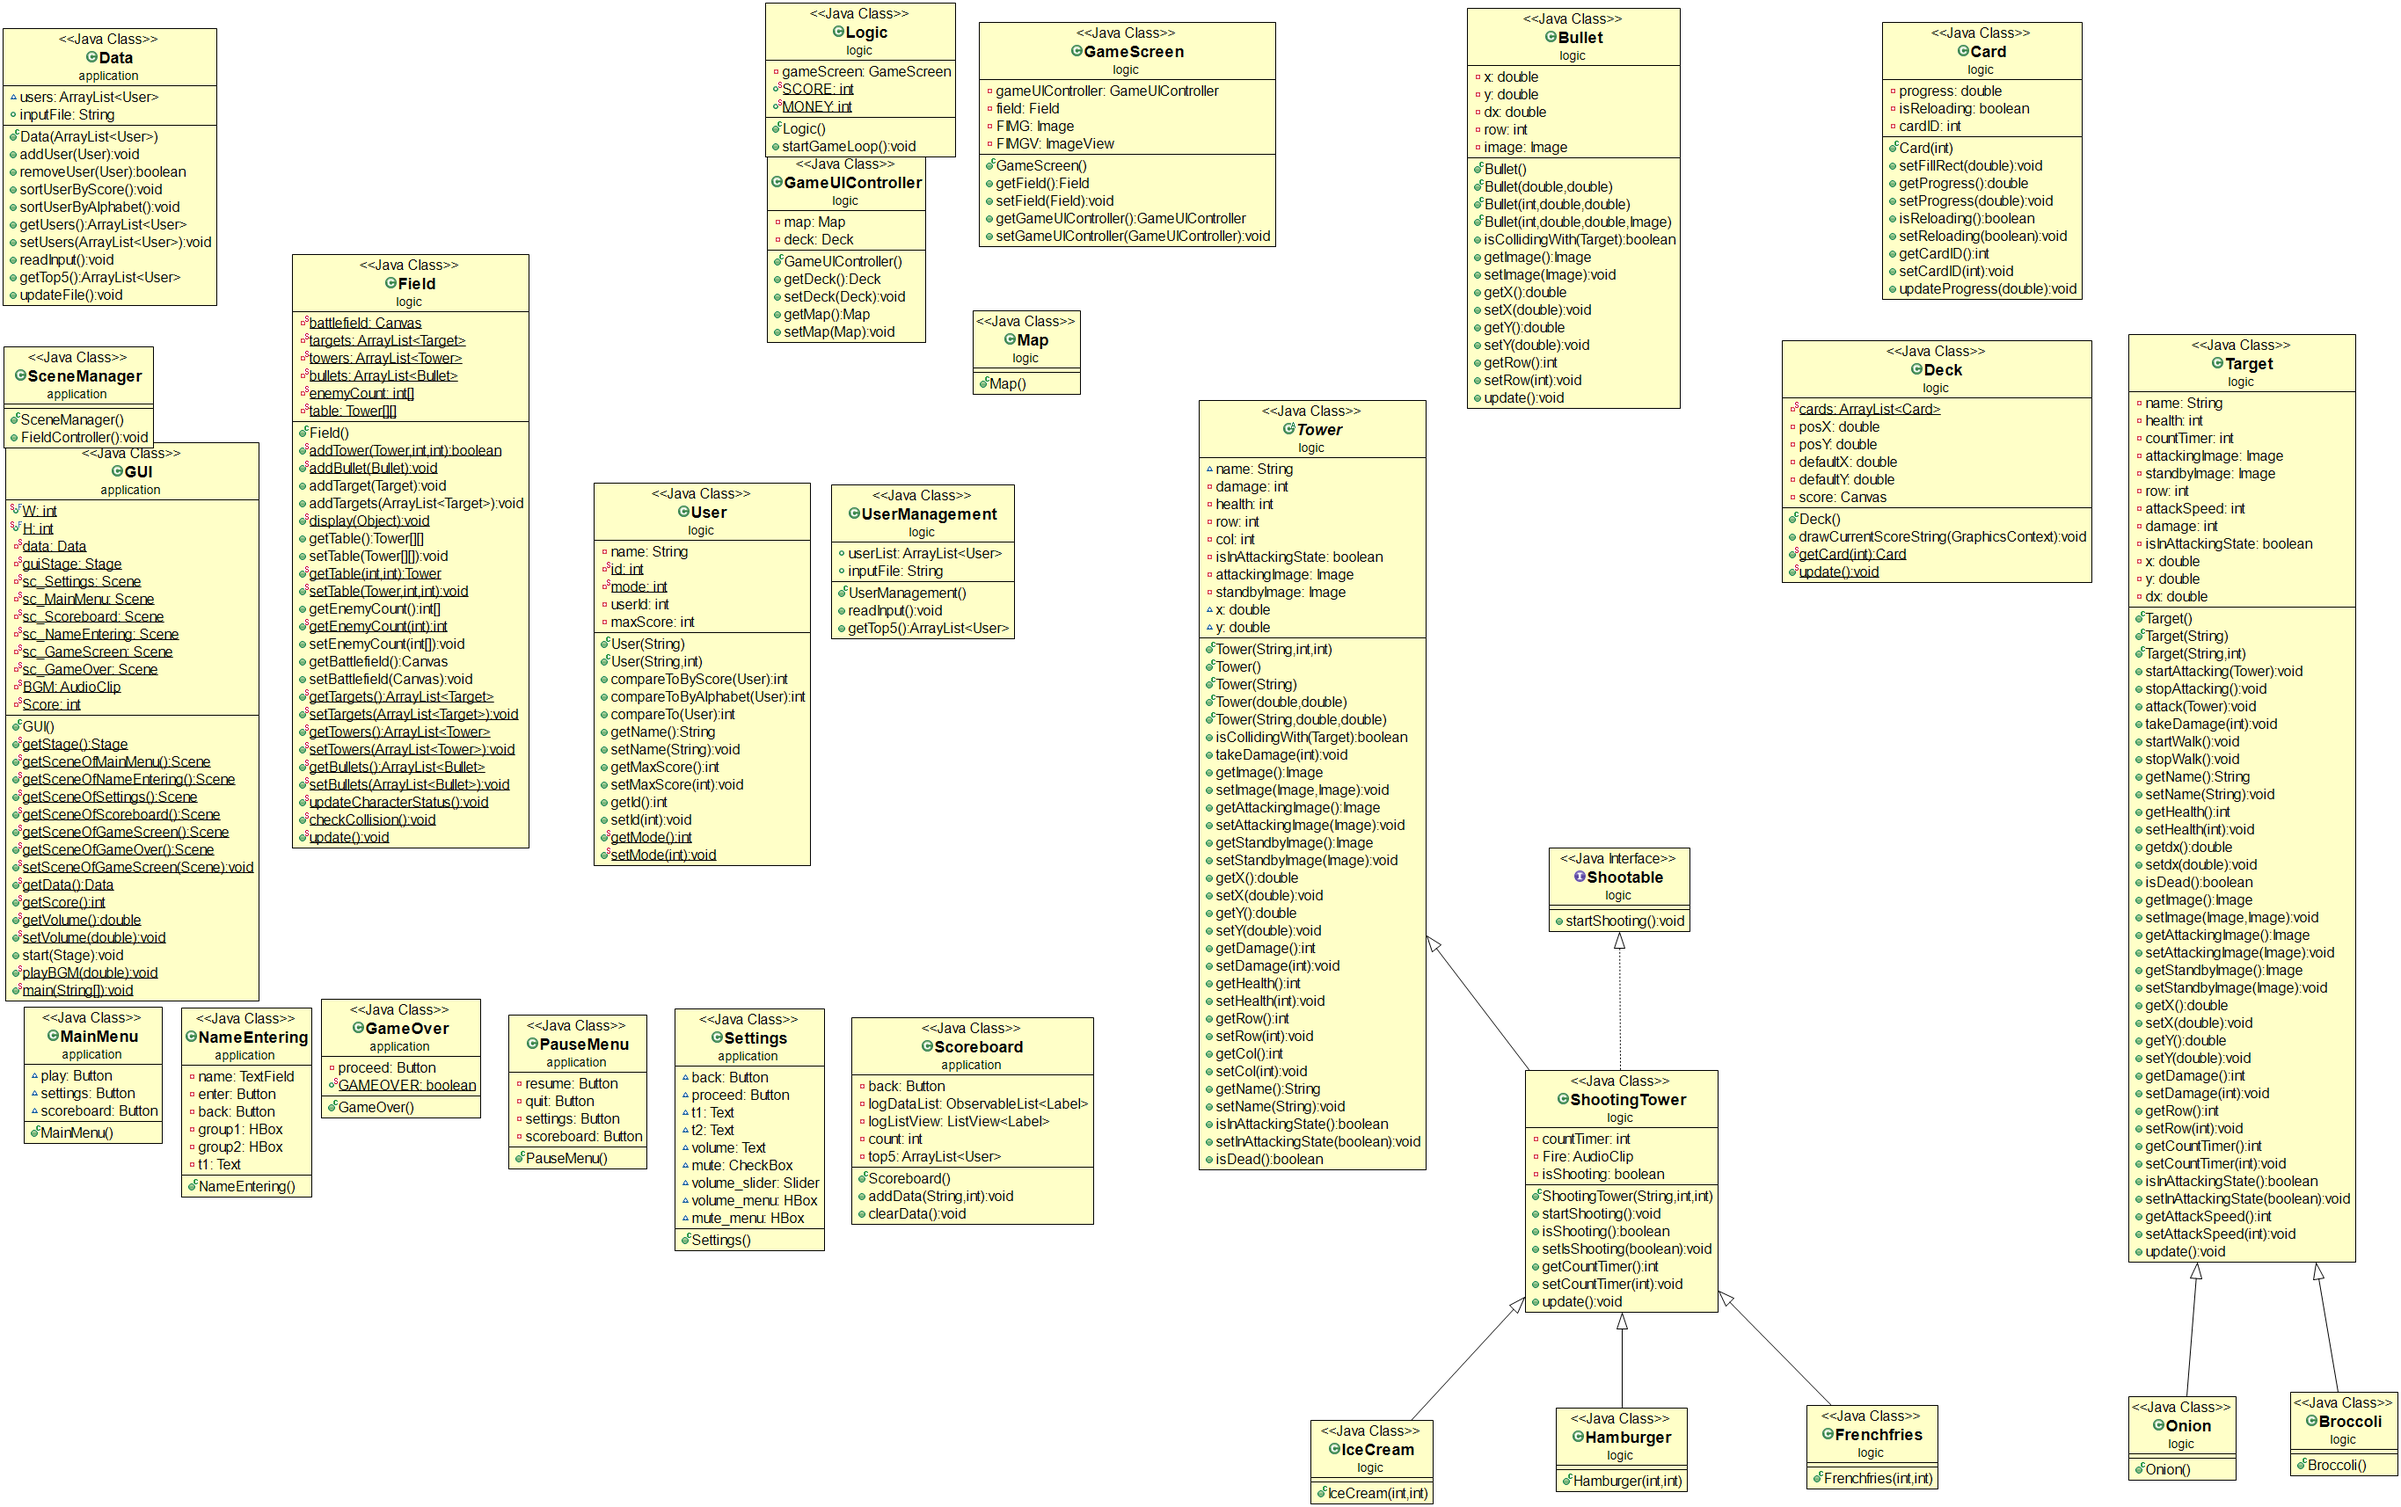
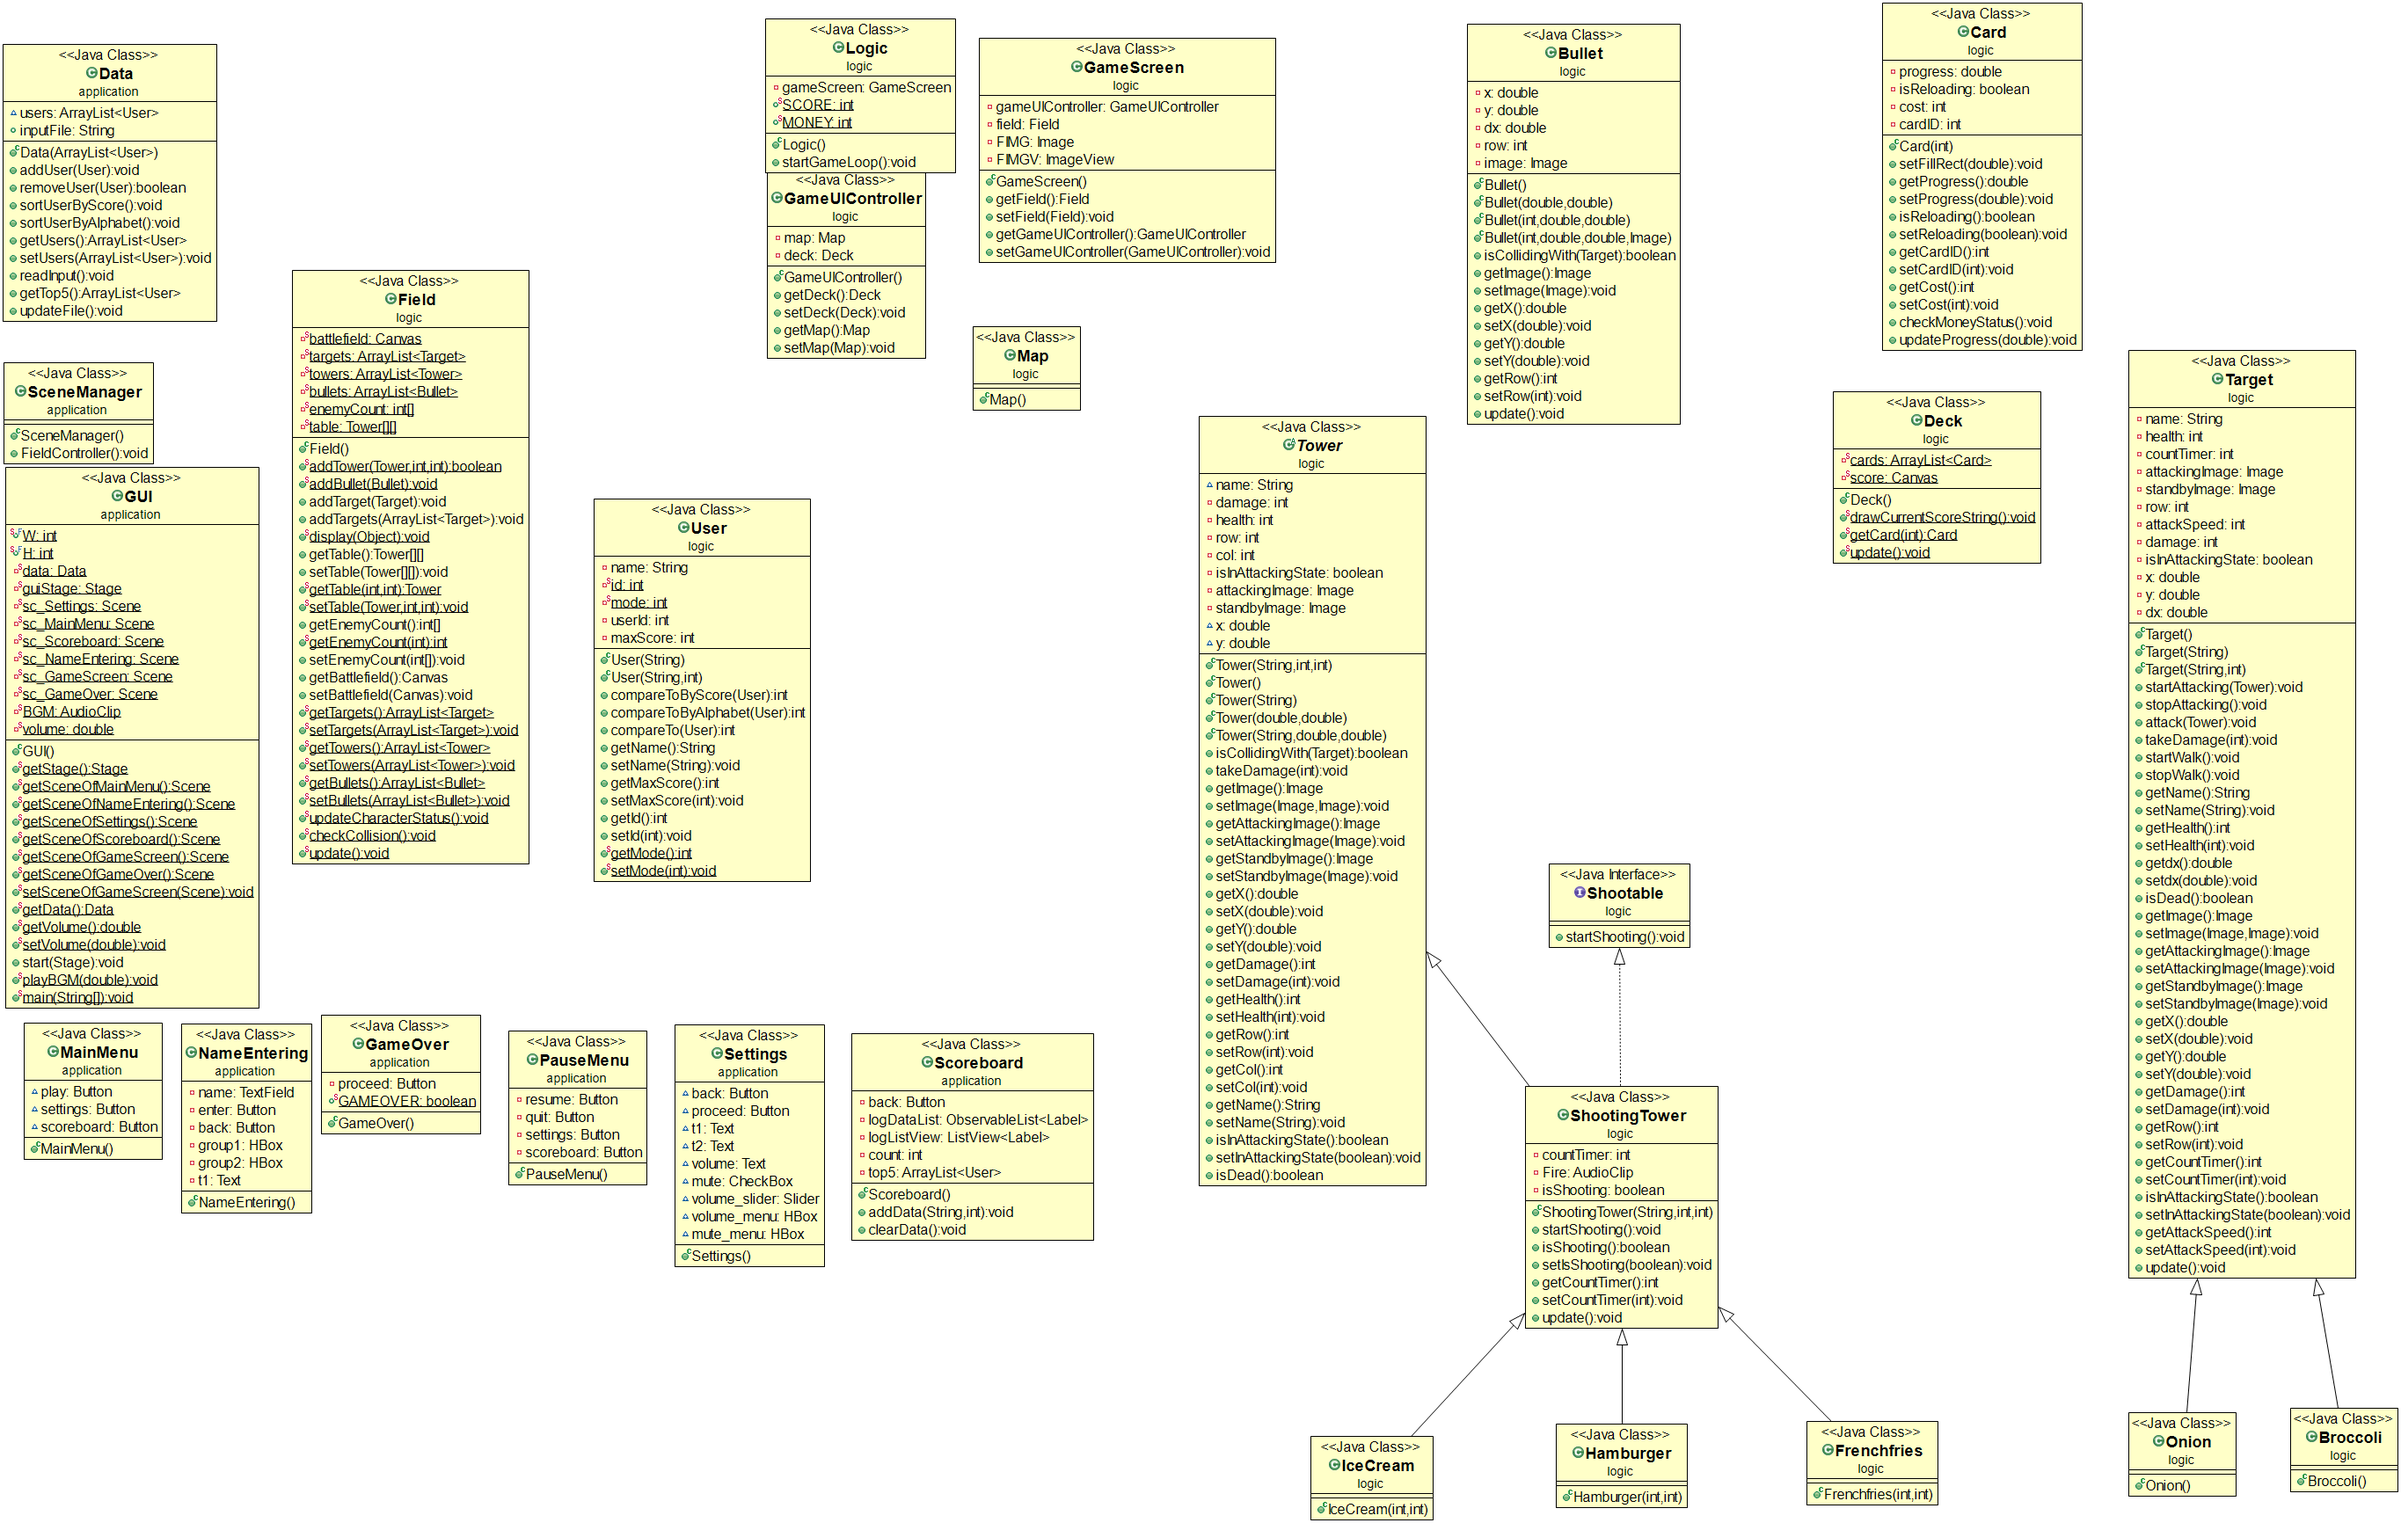
Added card reloading time and score/moeny attribute

diff --git a/src/logic/Card.java b/src/logic/Card.java
@@ -8,23 +8,32 @@ import javafx.scene.input.ClipboardContent;
 import javafx.scene.input.Dragboard;
 import javafx.scene.input.TransferMode;
 import javafx.scene.paint.Color;
+import javafx.scene.paint.Paint;
 
 public class Card extends Canvas{
 	private double progress = 0.0;
 	private boolean isReloading = false;
+	private int cost;
 	private int cardID;
 	public Card(int i) {
+		switch(i) {
+			case 1: cost = 100; break;
+			case 2: cost = 150; break;
+			case 3: cost = 200; break;
+			default: break;
+		}
 		setCardID(i);
 		setWidth(100);
 		setHeight(130);
 		setCursor(Cursor.HAND);
 		System.out.println("Card_" + i + ".png");
+		//getGraphicsContext2D().setFill(new Color(50, 50, 50));
 		getGraphicsContext2D().drawImage(new Image("Card_" + i + ".png"), 0, 0, getWidth(), getHeight());
 		
 		//setStyle("-fx-background-image: url('Card_" + i + ".png)");
 		setOnDragDetected((t)->{
 			System.out.println("Drag Detected");
-			if(!isReloading()) {
+			if(!isReloading() && Logic.MONEY >= cost) {
 				Dragboard db = startDragAndDrop(TransferMode.MOVE);
 				ClipboardContent content = new ClipboardContent();
 				content.putImage(new Image("Tower_" + i + ".png", 100,100,false,false));
@@ -38,7 +47,9 @@ public class Card extends Canvas{
 		});
 	}
 	public void setFillRect(double d) {
-		//getGraphicsContext2D().setFill(new Color(50, 50, 50, 0.4));
+		getGraphicsContext2D().clearRect(0, 0, getWidth(), getHeight());
+		getGraphicsContext2D().drawImage(new Image("Card_" + cardID + ".png"), 0, 0, getWidth(), getHeight());
+		getGraphicsContext2D().setFill(new Color(0, 0, 0, 0.4));
 		//getGraphicsContext2D().clearRect(0, 0, getWidth(), getHeight());
 		getGraphicsContext2D().fillRect(0, 0, getWidth(), getHeight() * d);
 	}
@@ -61,6 +72,29 @@ public class Card extends Canvas{
 	}
 	public void setCardID(int cardID) {
 		this.cardID = cardID;
+	}
+	public int getCost() {
+		return cost;
+	}
+	public void setCost(int cost) {
+		this.cost = cost;
+	}
+	public void checkMoneyStatus() {
+		
+		if(Logic.MONEY < cost) {
+			isReloading = false;
+			setProgress(0);
+			getGraphicsContext2D().clearRect(0, 0, getWidth(), getHeight());
+			getGraphicsContext2D().drawImage(new Image("Card_" + cardID + ".png"), 0, 0, getWidth(), getHeight());
+			getGraphicsContext2D().setFill(new Color(0, 0, 0, 0.4));
+			getGraphicsContext2D().fillRect(0, 0, getWidth(), getHeight());
+		}
+		else {
+			if(!isReloading) {
+				getGraphicsContext2D().clearRect(0, 0, getWidth(), getHeight());
+				getGraphicsContext2D().drawImage(new Image("Card_" + cardID + ".png"), 0, 0, getWidth(), getHeight());
+			}
+		}
 	}
 	public void updateProgress(double d) {
 		System.out.println("Update card Progress: " + progress);

diff --git a/src/logic/Deck.java b/src/logic/Deck.java
@@ -19,12 +19,11 @@ import javafx.scene.text.Font;
 
 public class Deck extends GridPane{
 	private static ArrayList<Card> cards;
-	private double posX,posY,defaultX,defaultY;
-	private Canvas score;
+	private static Canvas score;
 	public Deck() {
 		cards = new ArrayList<Card>();
 		score = new Canvas(100,100);
-		drawCurrentScoreString(score.getGraphicsContext2D());
+		drawCurrentScoreString();
 		add(score,0,0);
 		for(int i = 1; i <= 3; i++) {
 			Card c = new Card(i);
@@ -35,15 +34,16 @@ public class Deck extends GridPane{
 		setPadding(new Insets(10,10,10,10));
 		
 	}
-	public void drawCurrentScoreString(GraphicsContext gc){
-		gc.setFill(Color.BLACK);
-		gc.setFont(new Font(40));
-		gc.clearRect(0, 0, this.score.getWidth(), this.score.getHeight());
-		gc.fillText("" + GUI.getScore(), this.score.getWidth() / 2, this.score.getWidth() / 2);
+	public static void drawCurrentScoreString(){
+		Deck.score.getGraphicsContext2D().setFill(Color.BLACK);
+		Deck.score.getGraphicsContext2D().setFont(new Font(30));
+		Deck.score.getGraphicsContext2D().clearRect(0, 0, Deck.score.getWidth(), Deck.score.getHeight());
+		Deck.score.getGraphicsContext2D().fillText("" + Logic.MONEY, Deck.score.getWidth() / 2 - 35, Deck.score.getWidth() / 2 + 45);
 	}
 	public static Card getCard(int i) {
 		return cards.get(i - 1);
 	}
+	
 	public static void update() {
 		for(Card card : cards) {
 			if(card.isReloading()) {
@@ -51,7 +51,8 @@ public class Deck extends GridPane{
 				card.updateProgress(1);
 				System.out.println("Updated card");
 			}
+			card.checkMoneyStatus();
+			drawCurrentScoreString();
 		}
-		
 	}
 }

diff --git a/src/application/GUI.java b/src/application/GUI.java
@@ -26,7 +26,6 @@ public class GUI extends Application {
 	private static Scene sc_GameScreen;
 	private static Scene sc_GameOver;
 	private static AudioClip BGM;
-	private static int Score = 0;
 	private static double volume = 1.0;
 	public static Stage getStage() {
 		return guiStage;
@@ -54,9 +53,6 @@ public class GUI extends Application {
 	}
 	public static Data getData() {
 		return data;
-	}
-	public static int getScore() {
-		return Score;
 	}
 	public static double getVolume() {
 		return volume;

diff --git a/src/logic/Map.java b/src/logic/Map.java
@@ -72,6 +72,7 @@ public class Map extends GridPane{
 							if(Field.getTable(row,col) == null) {
 								int tower_index = Integer.parseInt(db.getString().substring(6, 7));
 								Deck.getCard(tower_index).setReloading(true);
+								Logic.MONEY -= Deck.getCard(tower_index).getCost();
 								switch(tower_index) {
 									case 1: Field.addTower((Tower)(new Frenchfries(row,col)), row, col); break;
 									case 2: Field.addTower((Tower)(new IceCream(row,col)), row, col); break;

diff --git a/src/logic/Logic.java b/src/logic/Logic.java
@@ -8,7 +8,7 @@ import javafx.animation.AnimationTimer;
 
 public class Logic {
 	private GameScreen gameScreen;
-	public static int SCORE,MONEY;
+	public static int SCORE = 0,MONEY = 200;
 	public Logic() {
 		gameScreen = new GameScreen();
 		startGameLoop();

diff --git a/src/logic/Field.java b/src/logic/Field.java
@@ -136,6 +136,8 @@ public class Field extends GridPane{
 		for(Target target : targets) {
 			target.update();
 			if(target.isDead()) {
+				Logic.SCORE += 1000;
+				Logic.MONEY += 100;
 				t.add((Object)target);
 				enemyCount[target.getRow()]--;
 			}
